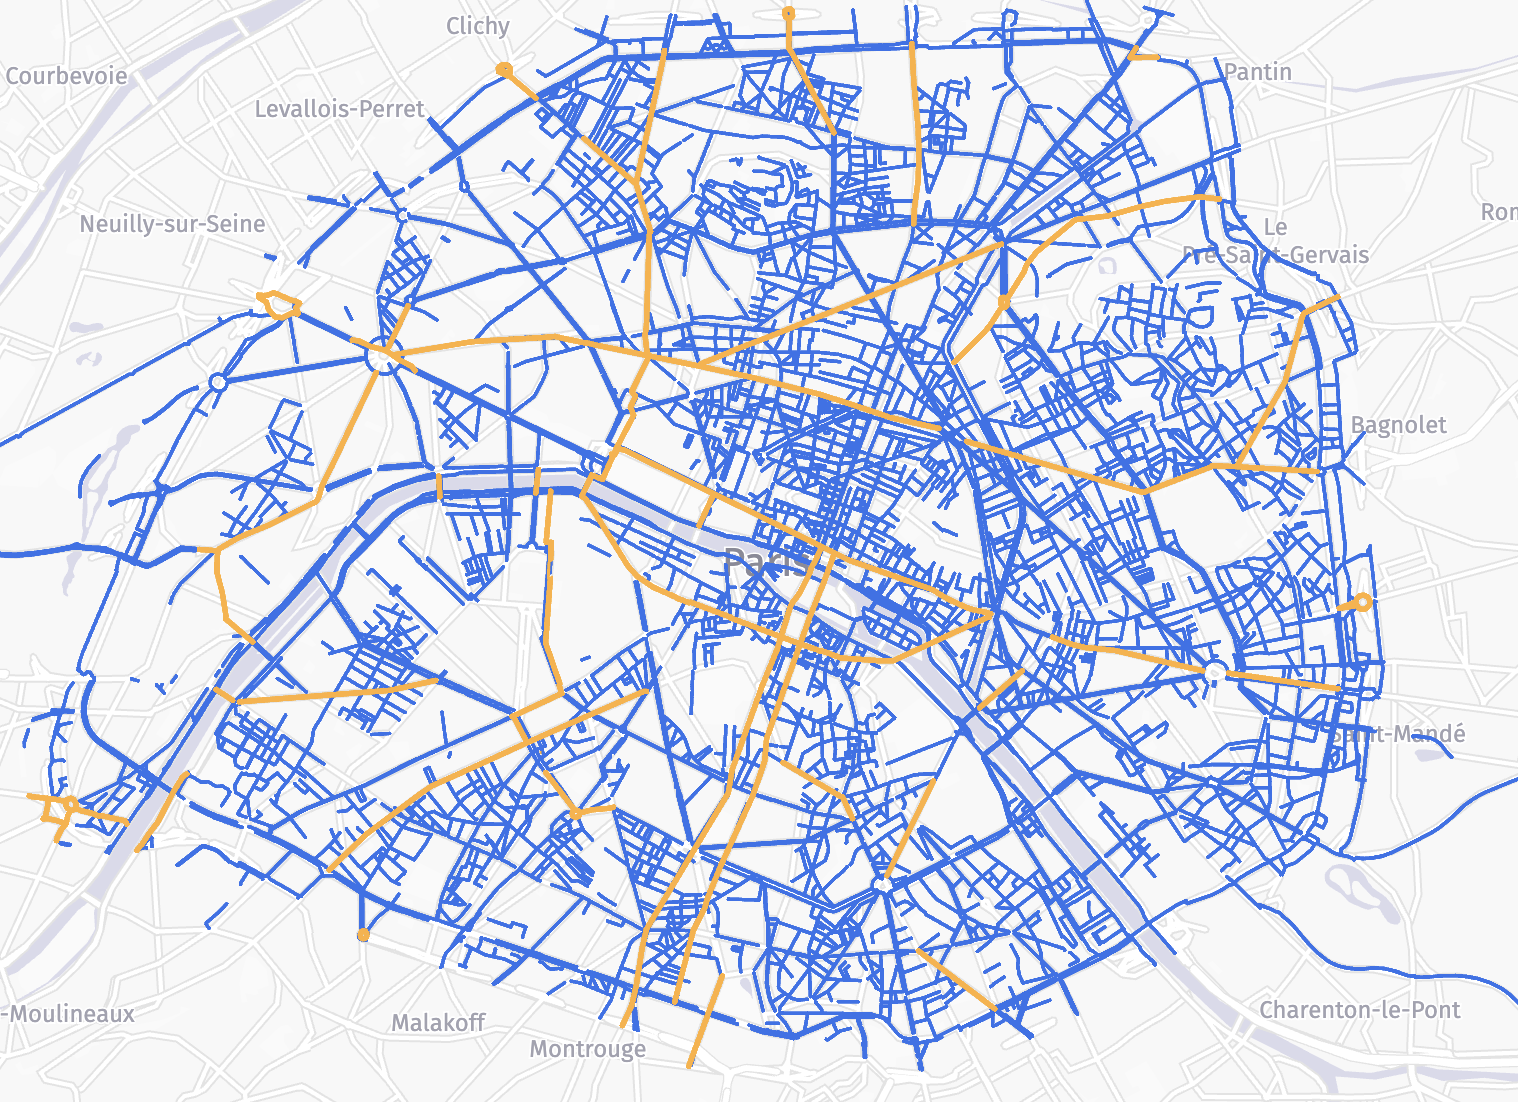
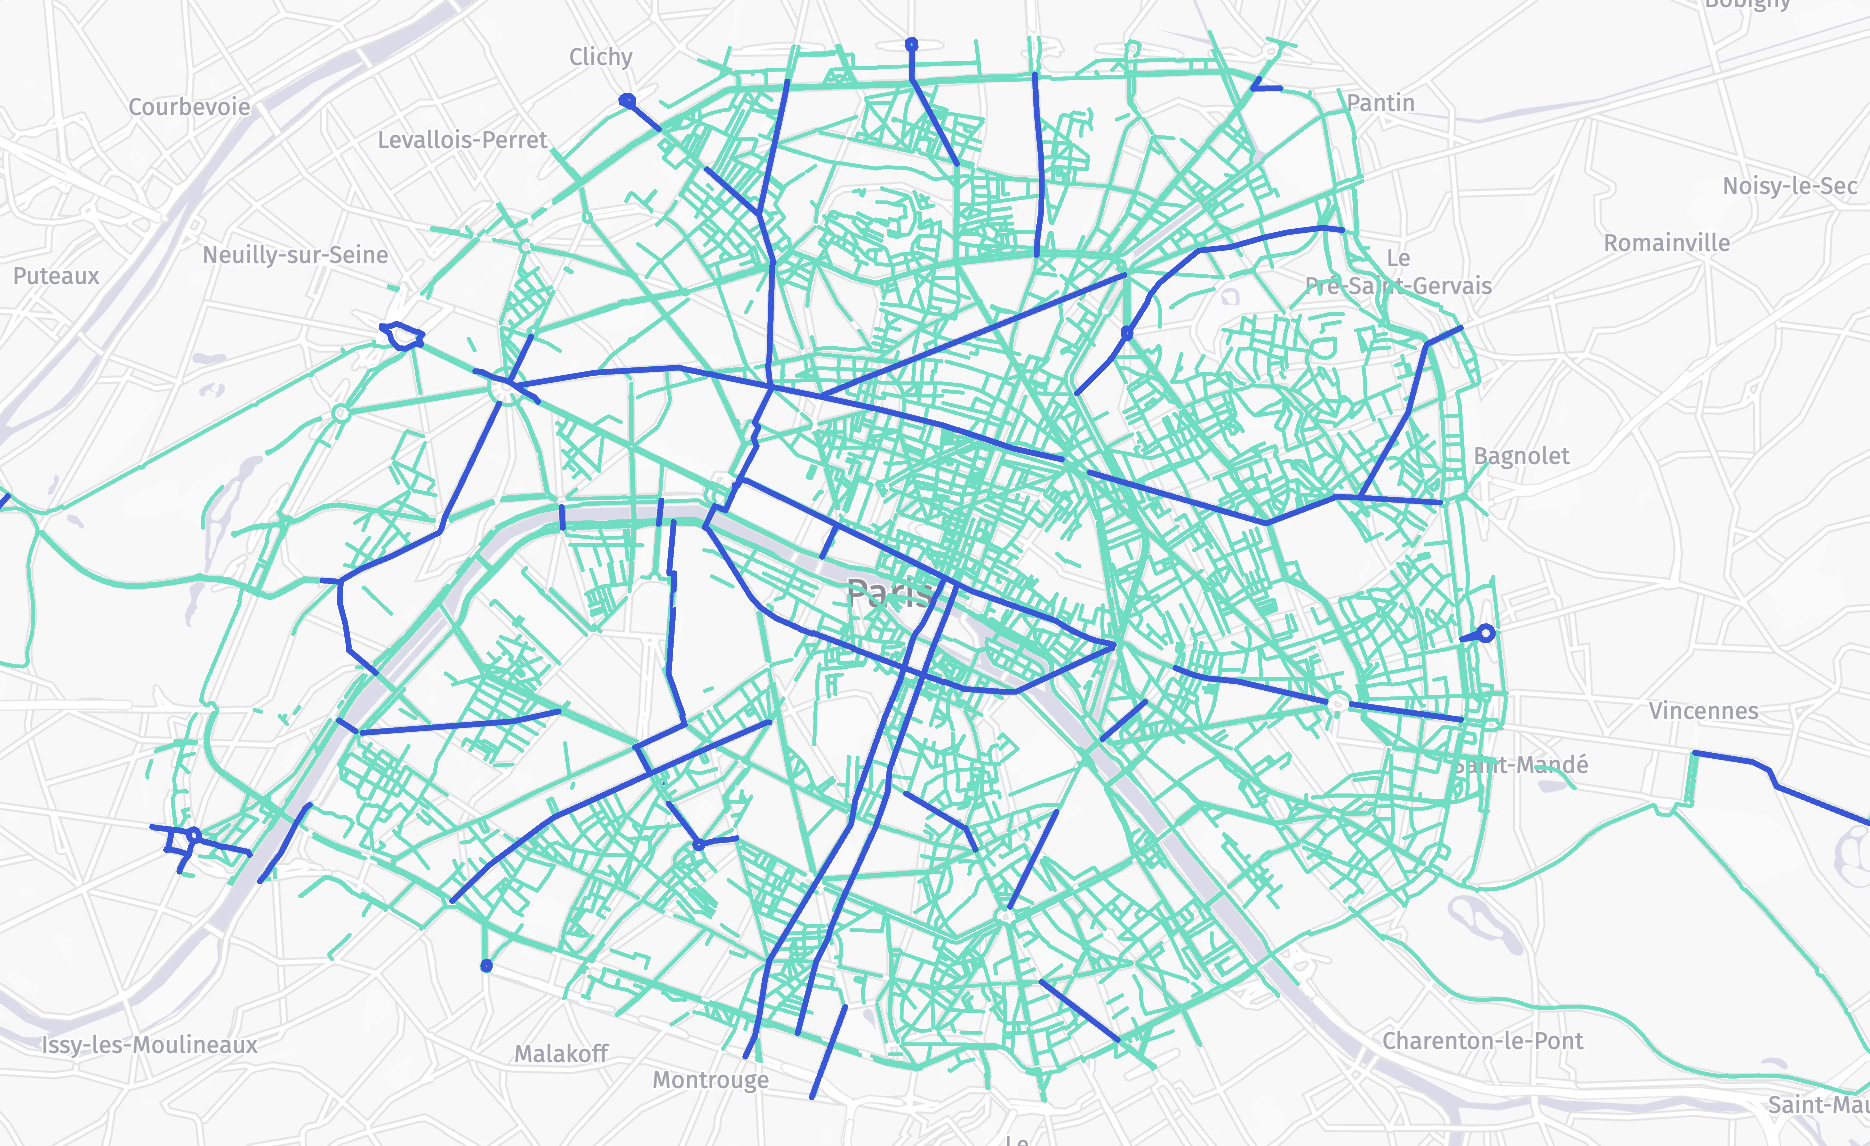
update colors

diff --git a/src/components/Map/Map.js b/src/components/Map/Map.js
@@ -2,7 +2,6 @@ import React, { useRef, useEffect, useState } from 'react';
 import { platform, colors, locations } from '../../config';
 import stylePath from './style.yaml';
 import './Map.scss';
-import Tooltip from '../Tooltip';
 const { H } = window;
 
 const Descriptor = ({ side, sliderPos }) => {
@@ -17,20 +16,10 @@ const Descriptor = ({ side, sliderPos }) => {
 };
 
 const Map = ({ data, city, side, sliderPos, sidebarOpen }) => {
-   const [tooltip, setTooltip] = useState({
-      visible: false,
-      x: 0,
-      y: 0,
-      content: {},
-   });
-
    const defaultLayers = platform.createDefaultLayers();
    const container = useRef(null);
    const map = useRef(null);
 
-   const objectProvider = new H.map.provider.LocalObjectProvider();
-   const objectLayer = new H.map.layer.ObjectLayer(objectProvider);
-   const root = objectProvider.getRootGroup();
    useEffect(() => {
       console.log('render');
       map.current = new H.Map(
@@ -45,16 +34,11 @@ const Map = ({ data, city, side, sliderPos, sidebarOpen }) => {
       window.addEventListener('resize', () =>
          map.current.getViewPort().resize()
       );
-      // new H.mapevents.Behavior(new H.mapevents.MapEvents(map.current));
-      // setStyle();
-      map.current.getEngine().setAnimationDuration(1000);
       setStyle();
       addObjects();
    }, []);
 
    useEffect(() => {
-      // removeObjects();
-      // addObjects();
       map.current.setCenter(locations[city].coordinates);
    }, [city]);
 
@@ -64,6 +48,7 @@ const Map = ({ data, city, side, sliderPos, sidebarOpen }) => {
 
    async function setStyle() {
       const style = await fetch(stylePath).then((res) => res.text());
+
       const provider = map.current.getBaseLayer().getProvider();
       provider.setStyle(new H.map.Style(style));
    }
@@ -90,57 +75,13 @@ const Map = ({ data, city, side, sliderPos, sidebarOpen }) => {
             },
          });
 
-         polyline.addEventListener('pointerenter', (evt) => {
-            const { clientX: x, clientY: y } = evt.originalEvent;
-
-            setTooltip({
-               visible: true,
-               x,
-               y,
-               content: properties,
-            });
-         });
-
-         polyline.addEventListener('pointermove', (evt) => {
-            const { clientX: x, clientY: y } = evt.originalEvent;
-            setTooltip({ visible: true, x, y, content: properties });
-         });
-
-         polyline.addEventListener('pointerleave', () => {
-            setTooltip({ visible: false });
-         });
          map.current.addObject(polyline);
       });
    }
 
-   function interleave() {
-      const style = map.current.getBaseLayer().getProvider().getStyle();
-      return new Promise((resolve) => {
-         const changeListener = () => {
-            if (style.getState() === H.map.Style.State.READY) {
-               style.removeEventListener('change', changeListener);
-               map.current.addLayer(objectLayer);
-               const labels = new H.map.Style(style.extractConfig('places'));
-               const labelsLayer = platform.getOMVService().createLayer(labels);
-               map.current.addLayer(labelsLayer);
-               resolve();
-            }
-         };
-         style.addEventListener('change', changeListener);
-      });
-   }
-
-   function removeObjects() {
-      map.current.getObjects().forEach((obj) => {
-         map.current.removeObject(obj);
-      });
-   }
    return (
       <div className="map" ref={container}>
          <Descriptor side={side} sliderPos={sliderPos} />
-         {tooltip.visible && (
-            <Tooltip x={tooltip.x} y={tooltip.y} content={tooltip.content} />
-         )}
       </div>
    );
 };

diff --git a/src/components/Sidebar.js b/src/components/Sidebar.js
@@ -27,7 +27,7 @@ const CityTile = ({ city, onClick, selected }) => {
          <div
             className={`tile `}
             style={{
-               backgroundImage: `url(${parisImg})`,
+               backgroundImage: `url(${locations[city].img})`,
             }}
          />
          <div className="label">
@@ -48,10 +48,9 @@ const Sidebar = ({ setCity, city, sidebarOpen, setSidebarOpen }) => {
                <h1>New COVID-19 Bike Lanes</h1>
             </div>
             <KeyboardArrowDownIcon
+               className="expand-icon"
                style={{
-                  fontSize: 24,
                   transform: `rotate(${!sidebarOpen ? '180deg' : '0deg'})`,
-                  transition: '0.3s all',
                }}
                onClick={() => setSidebarOpen((e) => !e)}
             />
@@ -99,21 +98,15 @@ const Sidebar = ({ setCity, city, sidebarOpen, setSidebarOpen }) => {
             </Section>
 
             <Section title="Select a city" className="city-grid">
-               <CityTile
-                  city="paris"
-                  selected={city === 'paris'}
-                  onClick={() => setCity('paris')}
-               />
-               <CityTile
-                  city="nantes"
-                  selected={city === 'nantes'}
-                  onClick={() => setCity('nantes')}
-               />
-               <CityTile
-                  city="lyon"
-                  selected={city === 'lyon'}
-                  onClick={() => setCity('lyon')}
-               />
+               {Object.keys(locations).map((currCity, index) => {
+                  return (
+                     <CityTile
+                        city={currCity}
+                        selected={city === currCity}
+                        onClick={() => setCity(currCity)}
+                     />
+                  );
+               })}
             </Section>
          </div>
       </div>

diff --git a/src/config.js b/src/config.js
@@ -1,4 +1,9 @@
 import { normal, covid } from './style/global.scss';
+
+import lyonImg from './static/lyon.png';
+import parisImg from './static/paris.png';
+import nantesImg from './static/nantes.png';
+
 const apikey = '1vO5Q3rOsOrwY8Ib0s_AEJn0-OyK0GvDBmAhyqNPHYc'; //Christo's: 'ZPsPkW20penY5wYBXiQF5PYIZs22XVSNMiykcJ0cwRw';
 const { H } = window;
 const platform = new H.service.Platform({ apikey });
@@ -14,18 +19,21 @@ const locations = {
       zoom: 13,
       province: 'Île-de-France',
       label: 'Paris',
+      img: parisImg,
    },
    nantes: {
       coordinates: { lat: 47.218102, lng: -1.5528 },
       zoom: 13,
       province: 'Pays de la Loire',
       label: 'Nantes',
+      img: nantesImg,
    },
    lyon: {
       coordinates: { lat: 45.74846, lng: 4.84671 },
       zoom: 13,
       province: 'Auvergne-Rhône-Alpes',
       label: 'Lyon',
+      img: lyonImg,
    },
 };
 

diff --git a/src/components/Sidebar.scss b/src/components/Sidebar.scss
@@ -43,6 +43,12 @@ $padding: 15px;
             background: $border_color;
          }
       }
+
+      .expand-icon {
+         font-size: 24px;
+         transition: 0.3s all;
+         display: none;
+      }
    }
 
    .logo {
@@ -130,6 +136,10 @@ $padding: 15px;
       .logo {
          height: 30px;
          width: 30px;
+      }
+
+      .expand-icon {
+         display: block !important;
       }
    }
 }

diff --git a/src/style/global.scss b/src/style/global.scss
@@ -1,10 +1,10 @@
-$covid: #ffb135;
-$normal: #3470eb;
+$covid: #3354e0;
+$normal: #33e0c0;
 
 $primary_text: #323232;
 $secondary_text: #787878;
 
-$mobile_width: 415px;
+$mobile_width: 600px;
 
 :export {
    covid: $covid;
